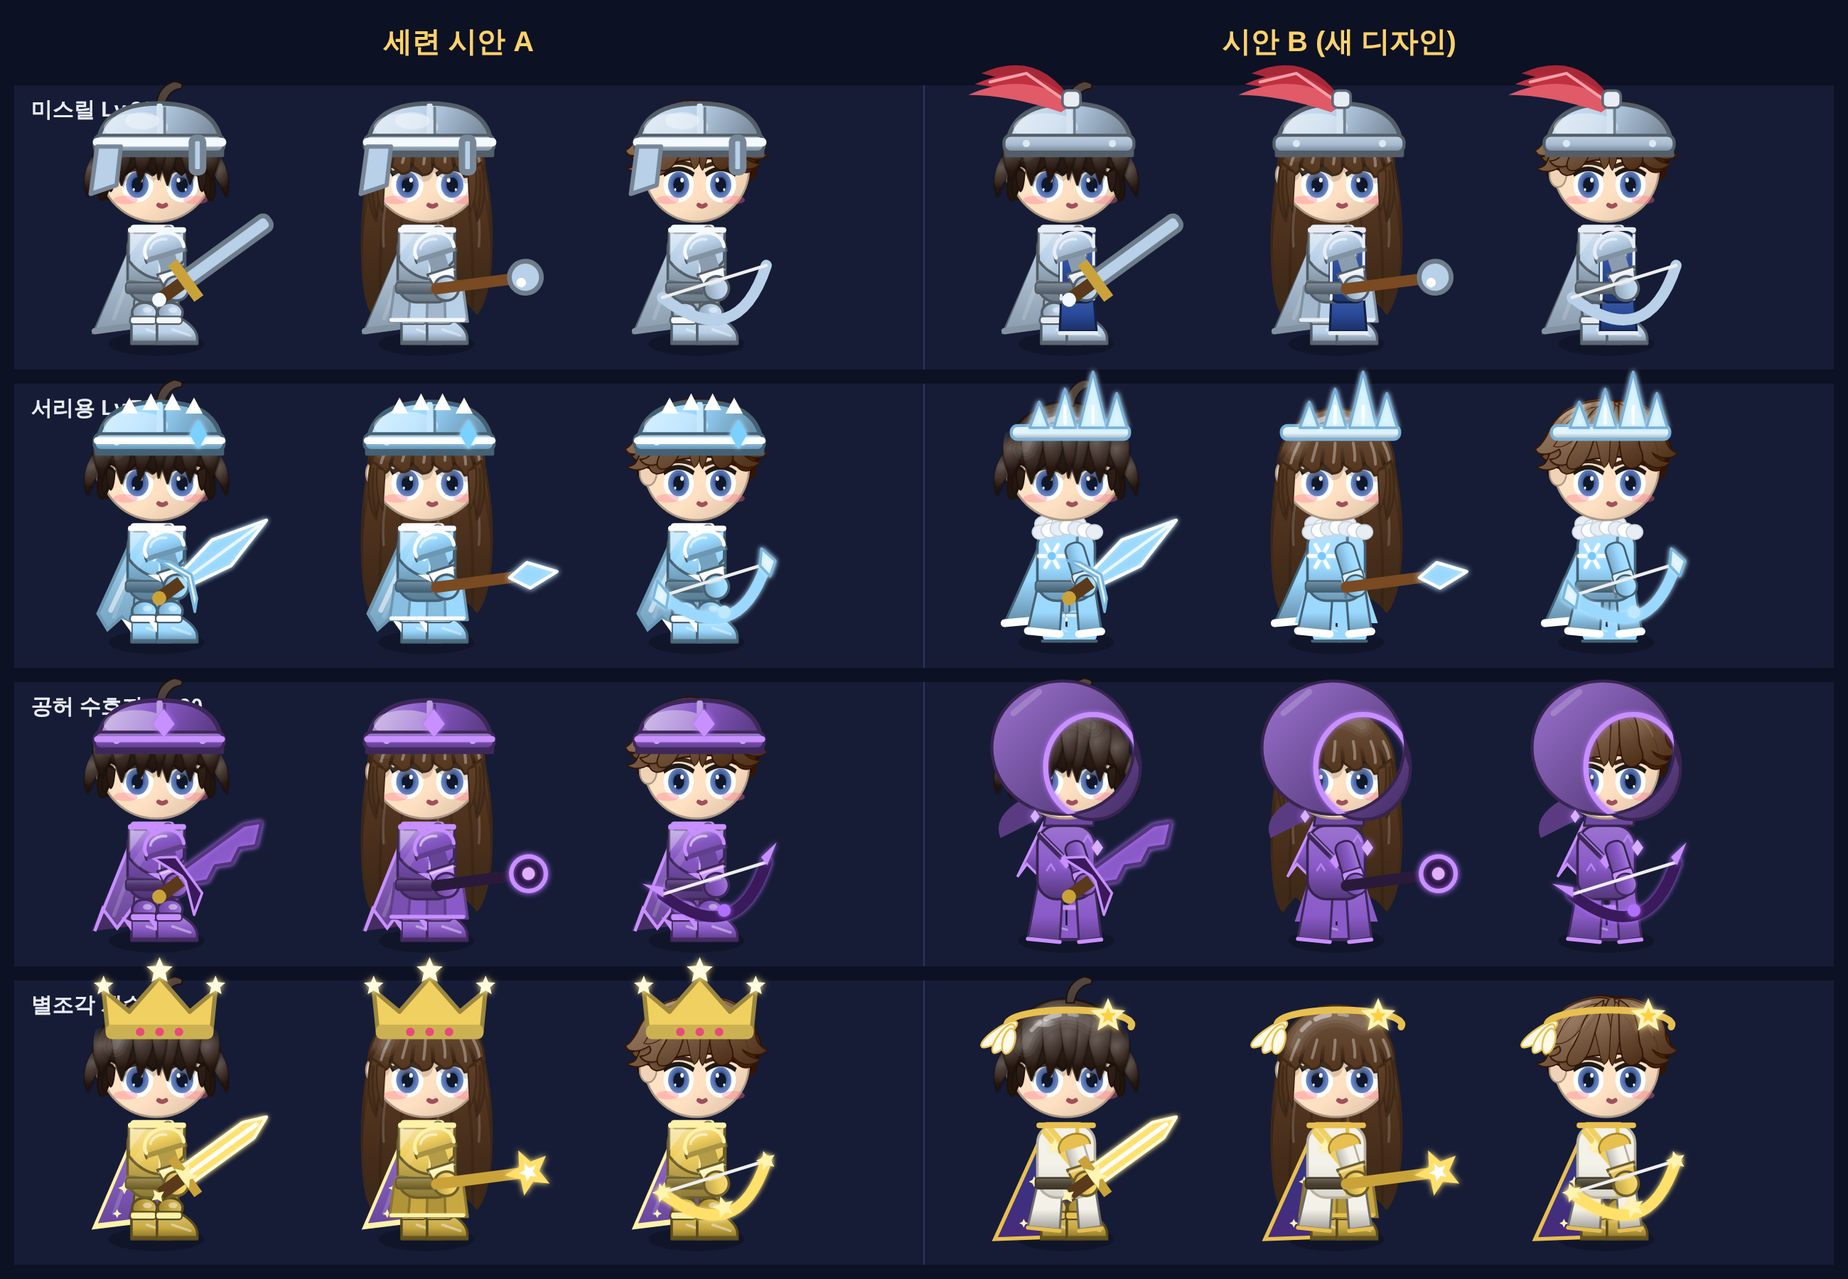
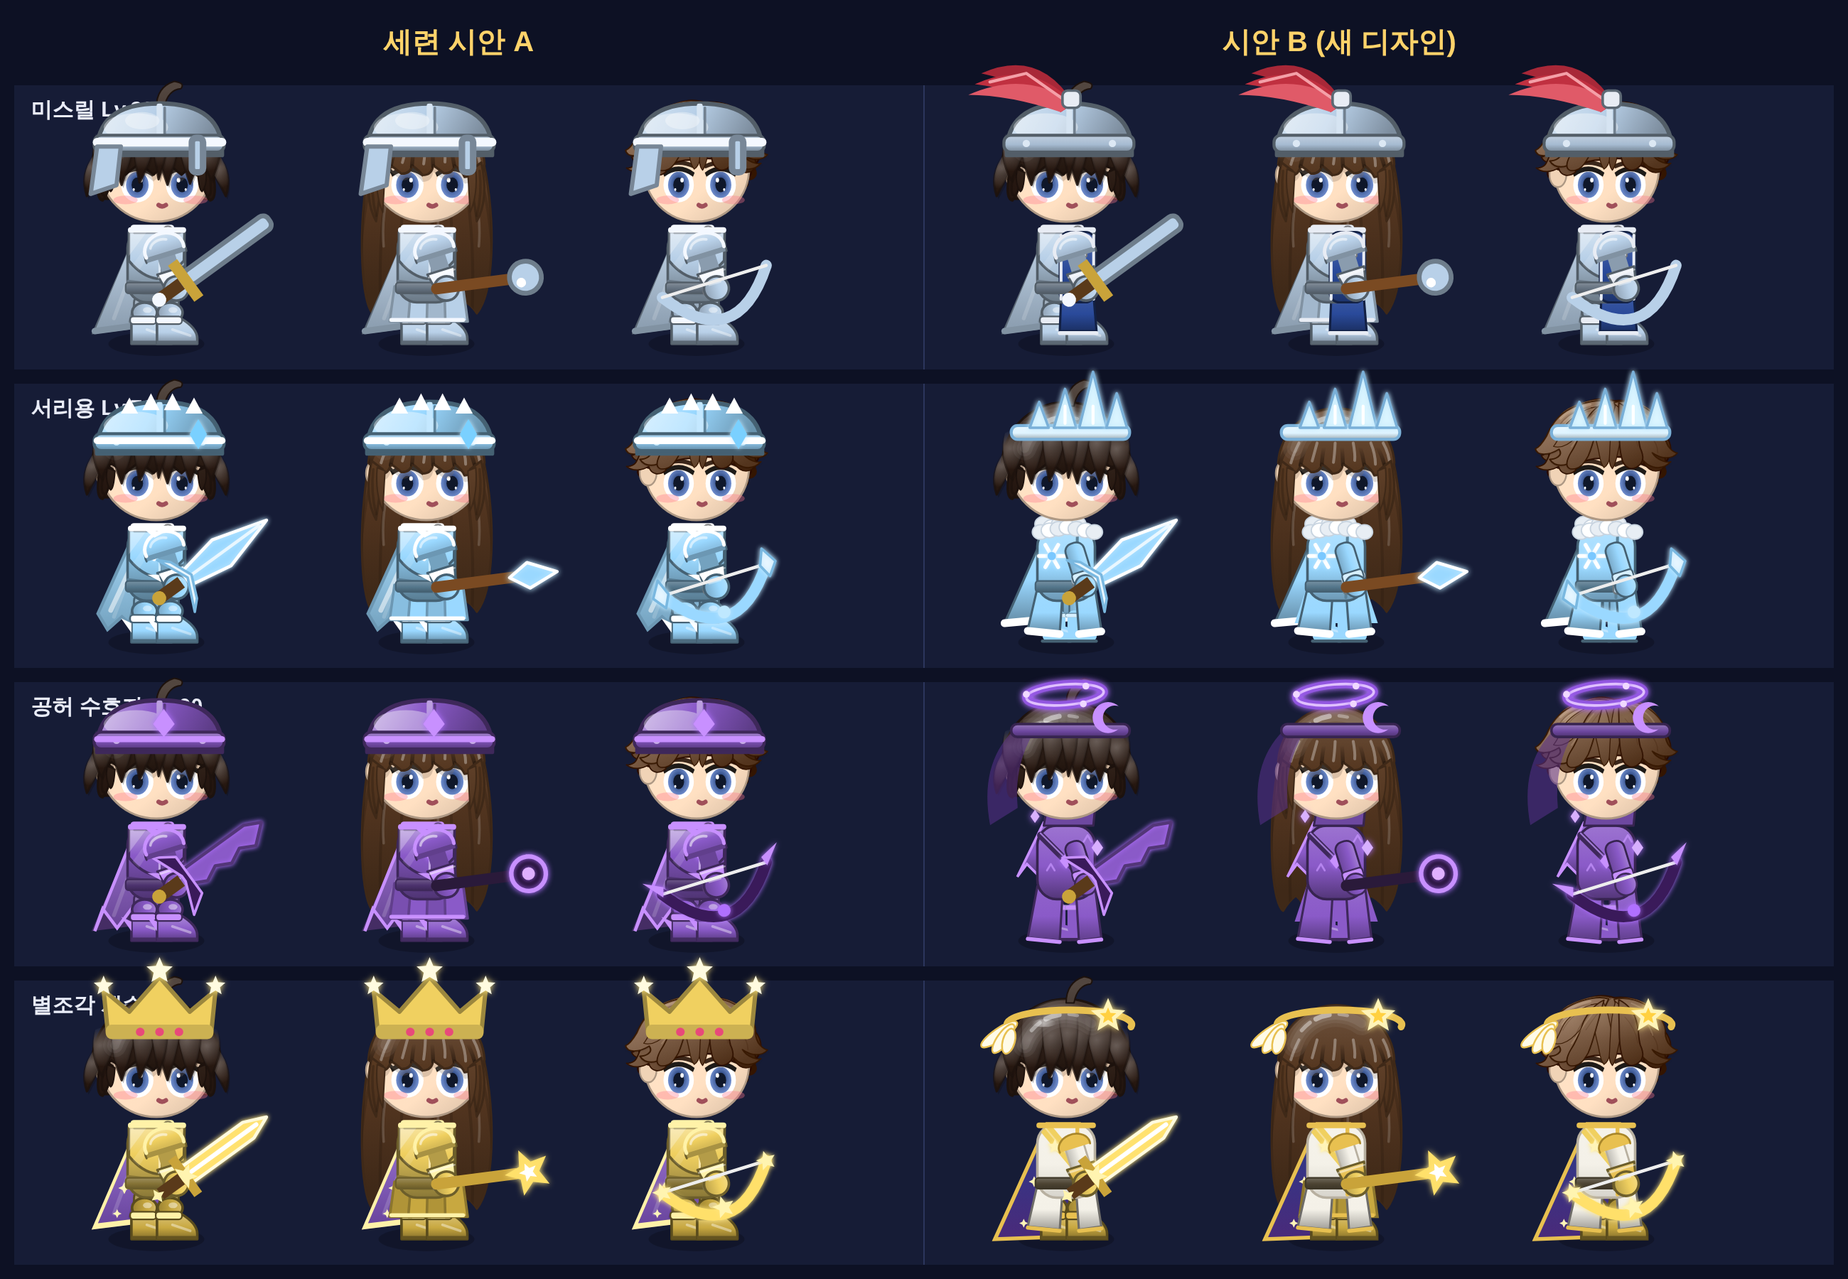
시안 B: 공허 모자 바꿈(떠 있는 어둠 고리 · 초승달 · 베일) · 새싹 · 엘렌 · 라그 새 디자인
Claude-Session: https://claude.ai/code/session_012Uzgs6nJ8nnZGaogUABhrm

diff --git a/hannyomi/docs/drafts/design/gear_B/v3parts.js b/hannyomi/docs/drafts/design/gear_B/v3parts.js
@@ -1,6 +1,6 @@
   // ======== 시안 B: 아예 다른 디자인 (세트마다 다른 실루엣) ========
-  const TAIL = { surcoat: 1, furcoat: 1, longcoat: 1, knightcoat: 1 };
-  const SLV = { furcoat: 1, longcoat: 1, knightcoat: 1, surcoat: 1 };
+  const TAIL = { surcoat: 1, furcoat: 1, longcoat: 1, knightcoat: 1, apron: 1 };
+  const SLV = { furcoat: 1, longcoat: 1, knightcoat: 1, surcoat: 1, jerkin: 1, ranger: 1, apron: 1 };
   const WHITE = '#f4f1e8';
   function hat(ctx, kind, c, sp, t) {
     const T = sp.trim || '#ffe08a';
@@ -35,6 +35,39 @@
         line(ctx, [[-12, -62], [-6, -67]], 'rgba(255,255,255,.18)', 1.4);
         return;
       }
+      case 'voidhalo': {   // 공허의 그림자: 머리 위에 떠 있는 어둠 고리 + 초승달 장식 머리띠 + 뒤로 늘어진 베일
+        const f = Math.sin(t * 2.5) * 1.2;
+        ctx.fillStyle = 'rgba(90,50,140,.55)'; ctx.beginPath(); ctx.moveTo(-12, -58); ctx.quadraticCurveTo(-20, -50, -18 + f * 0.5, -36); ctx.lineTo(-11, -40); ctx.quadraticCurveTo(-12, -50, -7, -58); ctx.closePath(); ctx.fill();   // 베일
+        rr(ctx, -12.5, -59.5, 27.5, 3, 1.4, vgrad(ctx, -59.5, -56.5, sh(c, -0.2)), sh(c, -0.6), 0.6);
+        ctx.fillStyle = T; ctx.beginPath(); ctx.arc(10, -61, 3.6, PI * 0.25, PI * 1.75); ctx.arc(11.6, -61, 2.8, PI * 1.6, PI * 0.4, true); ctx.closePath(); ctx.fill();   // 초승달
+        glowOn(ctx, sp.glow || '#b070ff', 10);
+        ctx.strokeStyle = '#8a50d8'; ctx.lineWidth = 2; ctx.beginPath(); ctx.ellipse(0, -67.5 + f, 9, 2.4, -0.08, 0, PI * 2); ctx.stroke();
+        ctx.strokeStyle = '#e0c0ff'; ctx.lineWidth = 0.6; ctx.stroke();
+        for (let i = 0; i < 3; i++) { const a = t * 1.8 + i * 2.1; ell(ctx, Math.cos(a) * 9, -67.5 + f + Math.sin(a) * 2.4, 0.8, 0.8, '#f0d8ff'); }
+        glowOff(ctx);
+        return;
+      }
+      case 'beret': {   // 새싹 견습생: 비스듬한 베레모 + 새싹 핀
+        ctx.fillStyle = vgrad(ctx, -70, -56, c); ctx.beginPath(); ctx.ellipse(-1, -61, 15, 7, -0.12, 0, PI * 2); ctx.fill(); ctx.strokeStyle = sh(c, -0.5); ctx.lineWidth = 0.7; ctx.stroke();
+        rr(ctx, -12, -58.5, 26, 3, 1.5, sh(c, -0.25), sh(c, -0.55), 0.5);
+        ell(ctx, -3, -64, 5, 2, 'rgba(255,255,255,.25)'); ell(ctx, -1, -67.6, 1.4, 1.1, sh(c, -0.3));
+        line(ctx, [[9, -60], [11, -65]], '#3e8e34', 1.1); ell(ctx, 9.5, -66, 2.6, 1.4, '#7ad66a', null); ell(ctx, 13, -65.6, 2.4, 1.3, '#9ae67a', null);   // 새싹 핀
+        return;
+      }
+      case 'leafcrown': {   // 숲의 레인저: 잎사귀 화관 + 작은 열매
+        for (let i = 0; i < 9; i++) { const a = PI + i * PI / 8, x = 1 + Math.cos(a) * 14, y = -58 + Math.sin(a) * 4.5; ctx.save(); ctx.translate(x, y); ctx.rotate(a + PI / 2 + (i % 2 ? 0.5 : -0.5)); ell(ctx, 0, -2.6, 1.7, 3.6, i % 2 ? c : sh(c, 0.25), sh(c, -0.5), 0.4); ctx.restore(); }
+        ctx.strokeStyle = '#6a4a2a'; ctx.lineWidth = 1.1; ctx.beginPath(); ctx.ellipse(1, -58, 14, 4.5, 0, PI, PI * 2); ctx.stroke();
+        for (const x of [-6, 4, 10]) ell(ctx, x, -60.5, 1.3, 1.3, '#e05a5a', '#902a2a', 0.4);
+        return;
+      }
+      case 'engineer': {   // 증기 기술자: 챙 달린 작업모 + 큰 황동 고글
+        dome(ctx, c, sh(c, -0.35), -64);
+        ctx.fillStyle = sh(c, -0.25); ctx.beginPath(); ctx.ellipse(13, -55, 8, 2.2, 0.1, 0, PI * 2); ctx.fill();   // 앞 챙
+        rr(ctx, -13.5, -60.5, 29, 3.4, 1.4, '#3a3028');
+        for (const x of [5, 11.5]) { ell(ctx, x, -61.5, 3.8, 3.8, '#b8862a', '#5a3a1a', 0.7); ell(ctx, x, -61.5, 2.6, 2.6, T); ell(ctx, x - 0.9, -62.4, 0.8, 0.8, '#fff'); }
+        line(ctx, [[8.8, -61.5], [7.7, -61.5]], '#5a3a1a', 1);
+        return;
+      }
       case 'starcirclet': {   // 별의 기사: 가는 금 서클릿 + 이마의 큰 별 + 작은 날개
         ctx.strokeStyle = '#e8c050'; ctx.lineWidth = 1.6; ctx.beginPath(); ctx.ellipse(1, -59, 14.5, 3.4, 0, PI * 0.05, PI * 0.95, true); ctx.stroke();
         for (let i = 0; i < 3; i++) { ctx.save(); ctx.translate(-12, -59); ctx.rotate(-0.6 - i * 0.35); ell(ctx, -4, 0, 5 - i, 1.4, '#fffbe8', '#e8c050', 0.4); ctx.restore(); }
@@ -47,6 +80,32 @@
   function torso(ctx, kind, c, lk, sp, e) {
     const T = sp.trim || '#e8c870';
     switch (kind) {
+      case 'jerkin': {   // 새싹 견습생: 짧은 재킷 + 안 셔츠 + 멜빵 가방끈
+        rr(ctx, -9, -36, 18, 23, 6, vgrad(ctx, -36, -13, '#f4eedc', 0.1, -0.15), '#b8b0a0', 0.8);   // 셔츠
+        rr(ctx, -9, -36, 13, 18, 5, vgrad(ctx, -36, -18, c), sh(c, -0.55), 0.8);   // 재킷 (앞이 열림)
+        line(ctx, [[4, -35], [4, -18.5]], sh(c, -0.45), 0.9); poly(ctx, [[0, -36], [4, -36], [4, -31]], sh(c, 0.3));   // 깃
+        line(ctx, [[-6, -36], [7, -15]], '#7a4e2a', 1.6);   // 가방끈
+        ell(ctx, 1.8, -29.5, 1.6, 1.1, '#7ad66a', '#3e8e34', 0.4);   // 새싹 배지
+        rr(ctx, -9.5, -19, 19, 3, 1, '#7a4e2a', '#4a2e18', 0.5);
+        return;
+      }
+      case 'ranger': {   // 숲의 레인저: 가죽 조끼 겹 + 화살통 끈 + 잎 브로치
+        rr(ctx, -9, -36, 18, 23, 6, vgrad(ctx, -36, -13, sh(c, 0.15)), sh(c, -0.55), 0.8);
+        poly(ctx, [[-9, -30], [-1, -36], [3, -36], [3, -14], [-9, -14]], vgrad(ctx, -36, -14, '#8a5a32'), '#4a2e18', 0.6);   // 가죽 조끼
+        for (const y of [-31, -26, -21]) line(ctx, [[3, y], [5.5, y + 1]], '#4a2e18', 0.7);
+        line(ctx, [[-8, -18], [8, -35]], '#5a3a1a', 1.8);   // 화살통 끈
+        ctx.save(); ctx.translate(5.5, -31); ctx.rotate(0.6); ell(ctx, 0, 0, 1.6, 3, T, sh(T, -0.5), 0.4); ctx.restore();   // 잎 브로치
+        belt(ctx, '#6a4a2a', T);
+        return;
+      }
+      case 'apron': {   // 증기 기술자: 작업 셔츠 + 가죽 앞치마 + 공구 벨트 + 톱니
+        rr(ctx, -9, -36, 18, 23, 6, vgrad(ctx, -36, -13, c), sh(c, -0.55), 0.8);
+        rr(ctx, -1, -34, 10, 21, 2, vgrad(ctx, -34, -13, '#7a4e2a', 0.15, -0.25), '#3a2210', 0.6);   // 앞치마
+        line(ctx, [[-1, -34], [-6, -36]], '#3a2210', 1); line(ctx, [[9, -34], [8, -36]], '#3a2210', 1);
+        ctx.save(); ctx.translate(4, -27); emblem(ctx, 'gear', 0, 0, '#7a4e2a', T); ctx.restore();
+        belt(ctx, '#3a3028', T); line(ctx, [[-7, -17], [-6.5, -11]], '#9aa0a8', 1.4); ell(ctx, -6.5, -11, 1.3, 1.3, null, '#9aa0a8', 0.9);   // 렌치
+        return;
+      }
       case 'surcoat': {   // 판금 위에 문장이 있는 천 겉옷 (앞판이 무릎까지)
         torsoV2(ctx, 'plate', c, lk, Object.assign({}, sp, { emblem: null }), e);
         const tb = sp.cloth || '#2a4a9a';
@@ -94,6 +153,7 @@
     const col = kind === 'knightcoat' ? WHITE : kind === 'surcoat' ? (sp.cloth || '#2a4a9a') : c;
     const edge = kind === 'knightcoat' ? '#e8c050' : kind === 'furcoat' ? '#ffffff' : kind === 'longcoat' ? (sp.trim || '#c890ff') : T;
     const len = kind === 'surcoat' ? -4 : kind === 'longcoat' ? 0 : -3;
+    if (kind === 'apron') { poly(ctx, [[-0.5, -16], [8.5, -16], [9 + k, -5], [-1 + k, -5]], vgrad(ctx, -16, -5, '#7a4e2a', 0.1, -0.3), '#3a2210', 0.6); return; }
     if (kind === 'surcoat') {   // 앞판만
       poly(ctx, [[-1.5, -16], [8.5, -16], [9.5 + k, len], [-2 + k, len]], vgrad(ctx, -16, len, col, 0.1, -0.35), sh(col, -0.55), 0.7);
       line(ctx, [[-2 + k, len + 0.6], [9.5 + k, len + 0.6]], T, 1.2); return;
@@ -107,13 +167,17 @@
     if (kind === 'furcoat') { rr(ctx, -3, 0, 6, 14, 2.5, hgrad(ctx, -3, 3, c), sh(c, -0.55), 0.6); rr(ctx, -3.6, 9.5, 7.2, 3.4, 1.6, '#ffffff', '#c8d4e0', 0.4); return; }
     if (kind === 'longcoat') { rr(ctx, -3, 0, 6, 14, 2.5, hgrad(ctx, -3, 3, c), sh(c, -0.6), 0.6); line(ctx, [[-3, 11], [3, 11]], sp.trim || '#c890ff', 0.9); return; }
     if (kind === 'knightcoat') { rr(ctx, -3, 0, 6, 14, 2.5, hgrad(ctx, -3, 3, WHITE), '#b8b0a0', 0.6); rr(ctx, -3.3, 10, 6.6, 2.6, 1, '#e8c050'); return; }
+    if (kind === 'jerkin') { rr(ctx, -3, 0, 6, 9, 2.5, hgrad(ctx, -3, 3, c), sh(c, -0.55), 0.6); rr(ctx, -2.8, 8, 5.6, 6, 2, '#f4eedc', '#b8b0a0', 0.5); line(ctx, [[-3, 8.5], [3, 8.5]], sh(c, 0.3), 1.4); return; }
+    if (kind === 'ranger') { rr(ctx, -2.8, 0, 5.6, 14, 2.5, hgrad(ctx, -2.8, 2.8, sh(c, 0.15)), sh(c, -0.55), 0.6); return; }
+    if (kind === 'apron') { rr(ctx, -2.8, 0, 5.6, 10, 2.5, hgrad(ctx, -2.8, 2.8, c), sh(c, -0.55), 0.6); line(ctx, [[-2.8, 9], [2.8, 9]], sh(c, -0.4), 1.6); return; }
     if (kind === 'surcoat') return sleeveOld(ctx, 'plate', c, e, sp);
     return sleeveOld(ctx, kind, c, e, sp);
   }
   function pauldron(ctx, kind, c, sp) {
     if (kind === 'surcoat') return pauldronV2(ctx, 'plate', c, sp);
     if (kind === 'knightcoat') { ctx.beginPath(); ctx.ellipse(0, 2, 5, 3.8, 0, PI * 0.95, PI * 2.05); ctx.fillStyle = '#e8c050'; ctx.fill(); ctx.strokeStyle = '#a8862a'; ctx.lineWidth = 0.6; ctx.stroke(); return; }
-    if (kind === 'furcoat' || kind === 'longcoat') return;
+    if (kind === 'furcoat' || kind === 'longcoat' || kind === 'jerkin' || kind === 'ranger') return;
+    if (kind === 'apron') { ctx.beginPath(); ctx.ellipse(0, 2, 5.4, 4.4, 0, PI * 0.95, PI * 2.05); ctx.fillStyle = vgrad(ctx, -3, 2, '#9aa0a8', 0.35, -0.1); ctx.fill(); ctx.strokeStyle = '#4a4a50'; ctx.lineWidth = 0.6; ctx.stroke(); for (const x of [-3, 0, 3]) ell(ctx, x, -0.6 + Math.abs(x) * 0.3, 0.7, 0.7, '#e0e4ea'); return; }
     return pauldronV2(ctx, kind, c, sp);
   }
   function cape(ctx, o, kind, c, sp) {
@@ -122,6 +186,22 @@
       poly(ctx, [[-6, -36], [hemX, -6], [3, -8], [4, -36]], vgrad(ctx, -36, -6, c, 0.15, -0.35), sh(c, -0.55), 0.7);
       line(ctx, [[hemX, -6], [3, -8]], '#ffffff', 2.4);
       for (let i = 0; i < 5; i++) ell(ctx, -7 + i * 2.6, -37 + (i % 2), 2.8, 2.4, i % 2 ? '#ffffff' : '#e8eef4', '#c8d4e0', 0.4);
+      return;
+    }
+    if (kind === 'capelet') {   // 새싹: 짧은 어깨 망토 + 잎 고리
+      poly(ctx, [[-7, -37], [hemX + 6, -22], [-2, -24], [4, -37]], vgrad(ctx, -37, -22, c, 0.2, -0.3), sh(c, -0.55), 0.7);
+      ell(ctx, 3, -35.5, 1.8, 1.2, '#7ad66a', '#3e8e34', 0.5); return;
+    }
+    if (kind === 'leafcape') {   // 숲의 레인저: 잎사귀 밑단 망토
+      poly(ctx, [[-6, -36], [hemX, -10], [3, -11], [4, -36]], vgrad(ctx, -36, -10, c, 0.15, -0.35), sh(c, -0.55), 0.7);
+      for (let i = 0; i < 5; i++) { ctx.save(); ctx.translate(hemX + 2 + i * 4.2, -9.5 + (i % 2)); ctx.rotate(i % 2 ? 0.4 : -0.3); ell(ctx, 0, 0, 2.2, 3.6, i % 2 ? sh(c, 0.3) : sh(c, 0.12), sh(c, -0.55), 0.4); ctx.restore(); }
+      return;
+    }
+    if (kind === 'steampack') {   // 증기 기술자: 등에 멘 증기 통 + 파이프 + 김
+      rr(ctx, -15, -36, 8, 15, 3, vgrad(ctx, -36, -21, '#b8862a', 0.3, -0.3), '#5a3a1a', 0.7);
+      for (const y of [-32, -25]) line(ctx, [[-15, y], [-7, y]], '#5a3a1a', 0.9);
+      line(ctx, [[-13, -36], [-13, -42], [-10, -44]], '#9aa0a8', 1.6);
+      const p = ((o.t || 0) * 0.8) % 1; ell(ctx, -9 + p * 2, -46 - p * 6, 2 + p * 2, 1.6 + p * 1.6, `rgba(230,230,240,${0.6 * (1 - p)})`);
       return;
     }
     if (kind === 'shadow') {   // 공허: 어깨 반망토 (찢어진 끝)
@@ -141,4 +221,15 @@
     glowOn(ctx, sp.glow || '#b070ff', 8);
     for (const [ph, r] of [[0, 1], [PI, 0.8]]) { const a = t * 1.6 + ph, x = Math.cos(a) * 17, y = -34 + Math.sin(a) * 6; poly(ctx, [[x, y - 2.6 * r], [x + 1.8 * r, y], [x, y + 2.6 * r], [x - 1.8 * r, y]], '#d8b0ff'); }
     glowOff(ctx);
+  }
+
+  // 등에 메는 것 (망토 아이템이 없는 세트도 상의에 딸려 보이게)
+  function backItem(ctx, o, kind, c, sp) {
+    if (kind === 'apron') return cape(ctx, o, 'steampack', c, sp);
+    if (kind === 'ranger') {   // 화살통 + 화살 깃
+      ctx.save(); ctx.translate(-10, -30); ctx.rotate(-0.45);
+      rr(ctx, -2.6, -8, 5.2, 16, 2, vgrad(ctx, -8, 8, '#8a5a32'), '#4a2e18', 0.6); line(ctx, [[-2.6, -5], [2.6, -5]], sp.trim || '#e2c66a', 1);
+      for (const x of [-1.4, 0.4, 2]) { line(ctx, [[x, -8], [x, -12]], '#e8dcc0', 0.6); poly(ctx, [[x - 1, -12], [x + 1, -12], [x, -14.6]], x > 0 ? '#e05a5a' : '#f4f0e0'); }
+      ctx.restore();
+    }
   }

diff --git a/hannyomi/docs/drafts/design/gear_B/cmpC.js b/hannyomi/docs/drafts/design/gear_B/cmpC.js
@@ -1,0 +1,40 @@
+const { chromium } = require('playwright'); const fs=require('fs');
+(async()=>{const b=await chromium.launch();
+const pg=await b.newPage({viewport:{width:1300,height:900},deviceScaleFactor:2}); pg.on('pageerror',e=>console.log('ERR',e.message));
+await pg.goto('file:///home/user/vibe261102/hannyomi/index.html');await pg.waitForTimeout(1500);
+await pg.addScriptTag({content:fs.readFileSync('outfit_v2.js','utf8')}); await pg.addScriptTag({content:fs.readFileSync('outfit_v3.js','utf8')});
+const SETS0=[['새싹 모험가','sprout',['sprout_hat','sprout_top','sprout_bottom','sprout_shoes','traveler_cape','traveler_gloves'],'sword_steel'],
+ ['엘렌 숲지기','elen',['elen_hat','elen_top','elen_bottom','elen_shoes','elen_gloves'],'sword_red'],
+ ['미스릴 Lv.30',30],['라그 강철 Lv.40',40],['서리용 Lv.70',70],['천공 Lv.85',85],['공허 수호자 Lv.90',90],
+ ['별조각 계승자','star',['trial_hat','trial_top','trial_bottom','trial_shoes','trial_gloves','trial_cape'],'trial_sword']];
+const SETS=[SETS0[0],SETS0[1],SETS0[3],SETS0[6]];
+for (const [part,list] of [['a',SETS]]) {
+await pg.evaluate((list)=>{
+ document.body.innerHTML='';document.body.style.cssText='margin:0;background:#0d1124;color:#e9ecf8;font-family:sans-serif';
+ const W=1300,rowH=210,cv=document.createElement('canvas');cv.width=W*2;cv.height=(list.length*rowH+60)*2;cv.style.width=W+'px';document.body.appendChild(cv);
+ const ctx=cv.getContext('2d');ctx.scale(2,2);ctx.fillStyle='#0d1124';ctx.fillRect(0,0,W,9999);
+ ctx.fillStyle='#ffd36a';ctx.font='bold 20px sans-serif';ctx.fillText('세련 시안 A',270,36);ctx.fillText('시안 B (새 디자인)',860,36);
+ const OLD=G.Outfit2,NEW=G.Outfit3,REAL=G.Outfit;
+ list.forEach(([name,key,pieces,wid],r)=>{
+  let ids=pieces;if(typeof key==='number'){ids=['hat','top','bottom','shoes','gloves','cape'].map(s=>`ar${key}_${s}`).filter(id=>G.ITEMS[id]);}
+  const y0=60+r*rowH;ctx.fillStyle='#161c36';ctx.fillRect(10,y0,W-20,rowH-10);ctx.fillStyle='#e9ecf8';ctx.font='bold 15px sans-serif';ctx.fillText(name,22,y0+22);
+  ctx.strokeStyle='#2c355c';ctx.beginPath();ctx.moveTo(650,y0);ctx.lineTo(650,y0+rowH-10);ctx.stroke();
+  [['warrior','m','short','#2a1a12'],['mage','f','long','#5a3a22'],['archer','m','side','#684932']].forEach(([fam,gd,hs,hc],i)=>{
+   const w=wid?G.ITEMS[(fam==='warrior'?wid:wid.replace('sword',fam==='mage'?'wand':'bow').replace(/_steel$/,'').replace(/_red$/,'_red'))]:null;
+   let wi=null; if(typeof key==='number'){wi=[key,key+5,key-5].map(l=>`wp${l}_${fam}`).find(id=>G.ITEMS[id]);} else if(fam==='warrior') wi=wid; else wi=key==='star'?'trial_'+(fam==='mage'?'wand':'bow'):null;
+   const eq={};for(const id of ids.concat(wi&&G.ITEMS[wi]?[wi]:[]))eq[G.ITEMS[id].slot]={tid:id};
+   const it=s=>eq[s]?G.ITEMS[eq[s].tid]:null;
+   const L=G.LOOKS.toDraw(Object.assign(G.LOOKS.def(gd),{hairStyle:hs,hairColor:hc}));
+   const look=Object.assign({},L,{top:it('top')?it('top').color:L.top,bottom:it('bottom')?it('bottom').color:L.bottom});
+   for(const [side,OF] of [[0,OLD],[1,NEW]]){ G.Outfit=OF;
+    const wp=it('weapon');
+    G.Draw.humanoid(ctx,{x:110+i*190+side*640,y:y0+rowH-28,dir:1,t:0.6,atk:-1,scale:2.25,look,gear:OF.gearOf(eq),hatColor:it('hat')?it('hat').color:null,cape:it('cape')?it('cape').color:null,weapon:wp?wp.type:null,wcolor:wp?wp.color:null});
+   }
+   G.Outfit=REAL;
+  });
+ });
+},list);
+await pg.waitForTimeout(300); const h=await pg.evaluate(()=>document.querySelector('canvas').getBoundingClientRect().height);
+await pg.setViewportSize({width:1300,height:Math.ceil(h)}); await pg.screenshot({path:`cmpC_${part}.png`});
+}
+await b.close();})();

diff --git a/hannyomi/docs/drafts/design/gear_B/mkv3.py b/hannyomi/docs/drafts/design/gear_B/mkv3.py
@@ -20,7 +20,14 @@ s=s.replace(old,"""    red: {}, steel: {}, wind: {}, crystal: {}, shadow: {},
   Object.assign(S, {
     mithril:  { hat: 'plume', top: 'surcoat', bottom: 'greave', shoes: 'sabaton', gloves: 'gauntlet', cape: 'long', trim: '#e8ecf4', cloth: '#2a4a9a' },
     frost:    { hat: 'frostcrown', top: 'furcoat', bottom: 'pants', shoes: 'boot', gloves: 'glove', cape: 'fur', trim: '#d8f0ff', glow: '#bfe8ff' },
-    void:     { hat: 'hood', top: 'longcoat', bottom: 'pants', shoes: 'tallboot', gloves: 'glove', cape: 'shadow', trim: '#c890ff', glow: '#b070ff' },
+    void:     { hat: 'voidhalo', top: 'longcoat', bottom: 'pants', shoes: 'tallboot', gloves: 'glove', cape: 'shadow', trim: '#c890ff', glow: '#b070ff' },
+    sprout:   { hat: 'beret', top: 'jerkin', emblem: 'leaf', shoes: 'boot', trim: '#f4e27a' },
+    traveler: { cape: 'capelet', gloves: 'glove' },
+    elen:     { hat: 'leafcrown', top: 'ranger', shoes: 'tallboot', gloves: 'bracer', cape: 'leafcape', trim: '#e2c66a' },
+    rag:      { hat: 'engineer', top: 'apron', bottom: 'pants', shoes: 'boot', gloves: 'gauntlet', cape: 'steampack', trim: '#d0843e', rivet: true },
     starheir: { hat: 'starcirclet', top: 'knightcoat', bottom: 'greave', shoes: 'sabaton', gloves: 'gauntlet', cape: 'starflow', trim: '#e8c050', glow: '#ffe680' },
   });""")
+old2="    // 후드 (캐주얼)\n    if (e.hood && !g.top) hood(ctx, topC);"
+assert old2 in s, 'hood'
+s=s.replace(old2, old2+"\n    if (g.top) backItem(ctx, o, g.top.k, topC, sTop);")
 open('outfit_v3.js','w').write(s); print('ok')

diff --git a/hannyomi/docs/drafts/design/gear_B/README.md b/hannyomi/docs/drafts/design/gear_B/README.md
@@ -1,6 +1,11 @@
 # 장비 세트 시안 B (아예 다른 디자인, 2026-11-12) — 대표 4세트
 - 은빛 기사 (미스릴 Lv.30): 투구 + 뒤로 흐르는 붉은 깃털 장식 · 판금 위 파란 천 겉옷(방패 문장, 앞판이 무릎까지)
 - 서리 사냥꾼 (서리용 Lv.70): 얼음 결정 티아라 · 하얀 털 깃 코트(앞이 갈라진 자락, 털 밑단 · 털 소매) · 털 망토
-- 공허의 그림자 (공허 수호자 Lv.90): 얼굴 앞만 열린 후드(빛나는 테두리) · 높은 깃 긴 코트 · 사선 끈 · 빛나는 룬 · 몸 주위를 도는 룬 두 개 · 어깨 반망토
+- 공허의 그림자 (공허 수호자 Lv.90): ~~후드~~ → 사용자 요청으로 모자 바꿈: 머리 위에 떠 있는 어둠 고리(빛 알갱이 셋이 돎) + 초승달 장식 머리띠 + 뒤로 늘어진 반투명 베일 · 높은 깃 긴 코트 · 사선 끈 · 빛나는 룬 · 몸 주위를 도는 룬 두 개 · 어깨 반망토
 - 별의 기사 (별조각 계승자): 금 서클릿 + 이마의 큰 별 + 작은 날개 · 하얀 기사 코트(금 테 · 장비 색 사선 띠 · 별) · 금 어깨 · 땅까지 흐르는 별하늘 망토
 - 파일: `v3parts.js` + `mkv3.py` (세련 시안 A 의 `outfit_v2.js` 위에 덧붙여 `outfit_v3.js`), `cmpB.js` 비교 그림, `gear_B.png`
+
+## 추가 3세트 (gear_B2.png)
+- 새싹 견습생 (새싹 Lv.10): 비스듬한 베레모 + 새싹 핀 · 짧은 재킷 + 안 셔츠 + 가방끈 + 새싹 배지 · 걷어 올린 소매 · 짧은 어깨 망토(여행자 망토)
+- 숲의 레인저 (엘렌 Lv.20): 잎사귀 화관 + 빨간 열매 · 가죽 조끼 겹 + 화살통 끈 + 잎 브로치 · 등의 화살통(망토 아이템 없이도) · 팔 보호대 · 긴 장화
+- 증기 기술자 (라그 Lv.40): 챙 달린 작업모 + 큰 황동 고글 · 작업 셔츠 + 가죽 앞치마(톱니) + 공구 벨트 · 렌치 · 리벳 어깨 · 등의 증기 통 + 김
